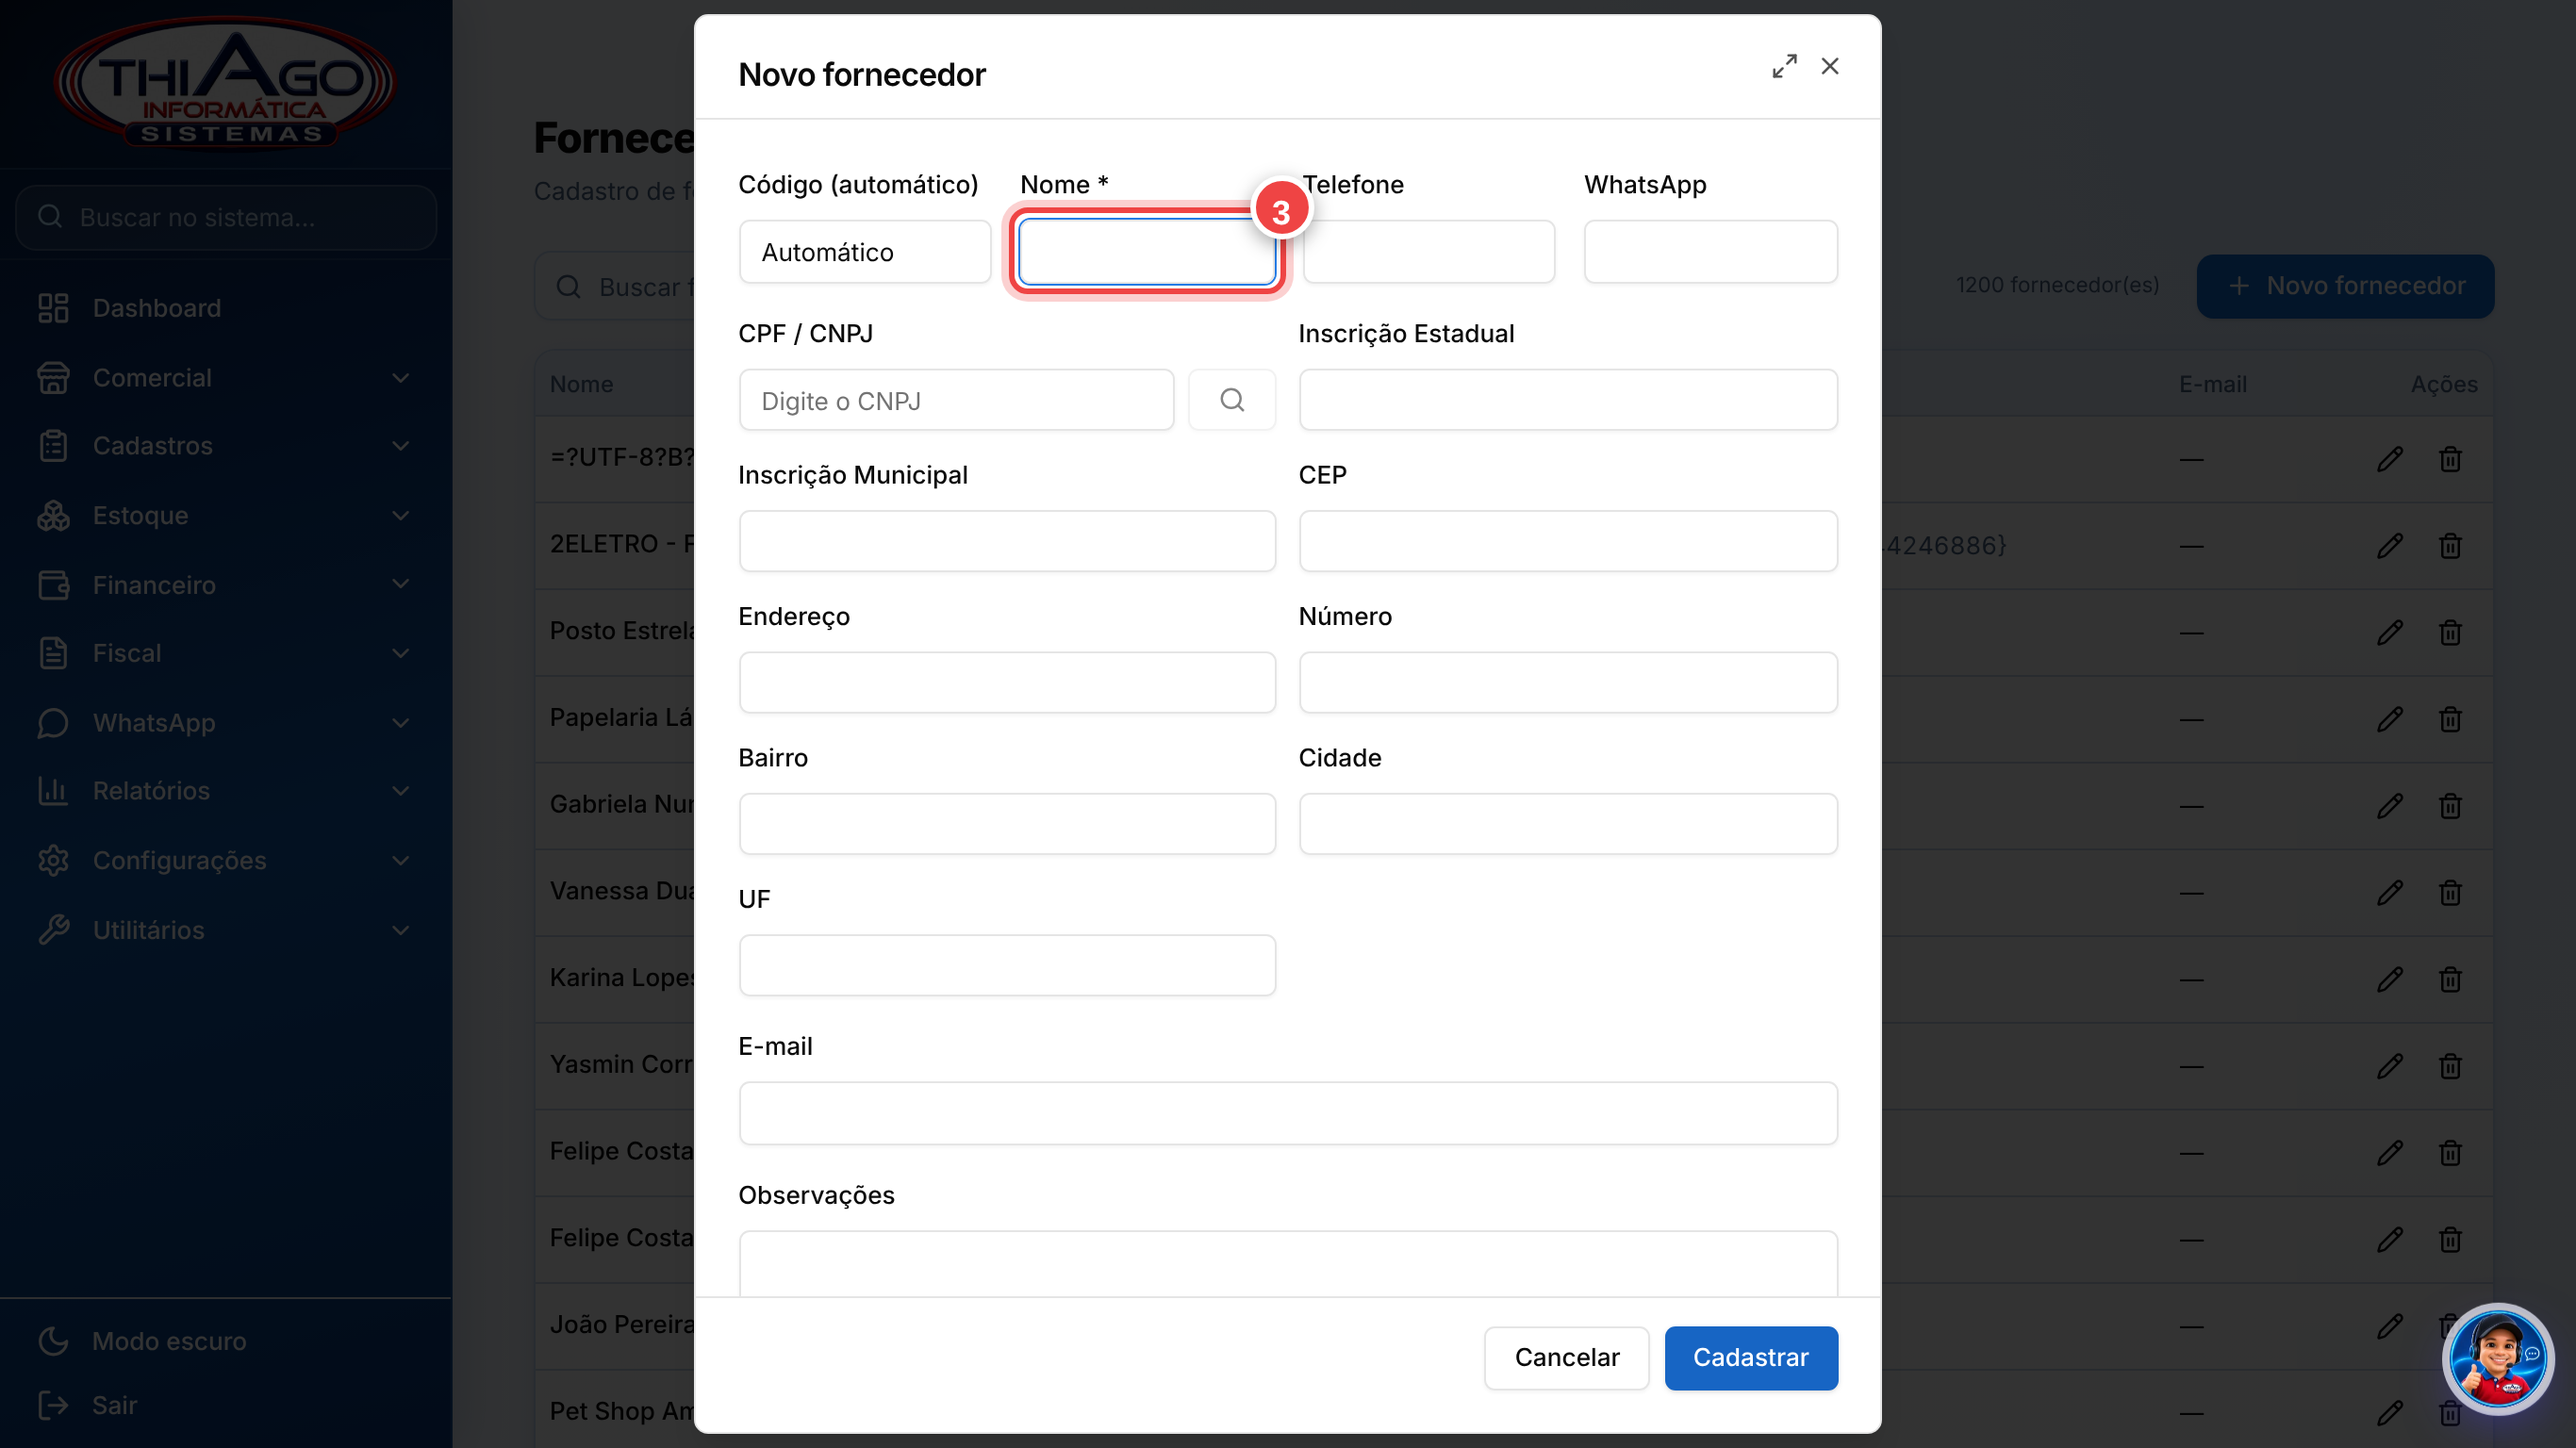
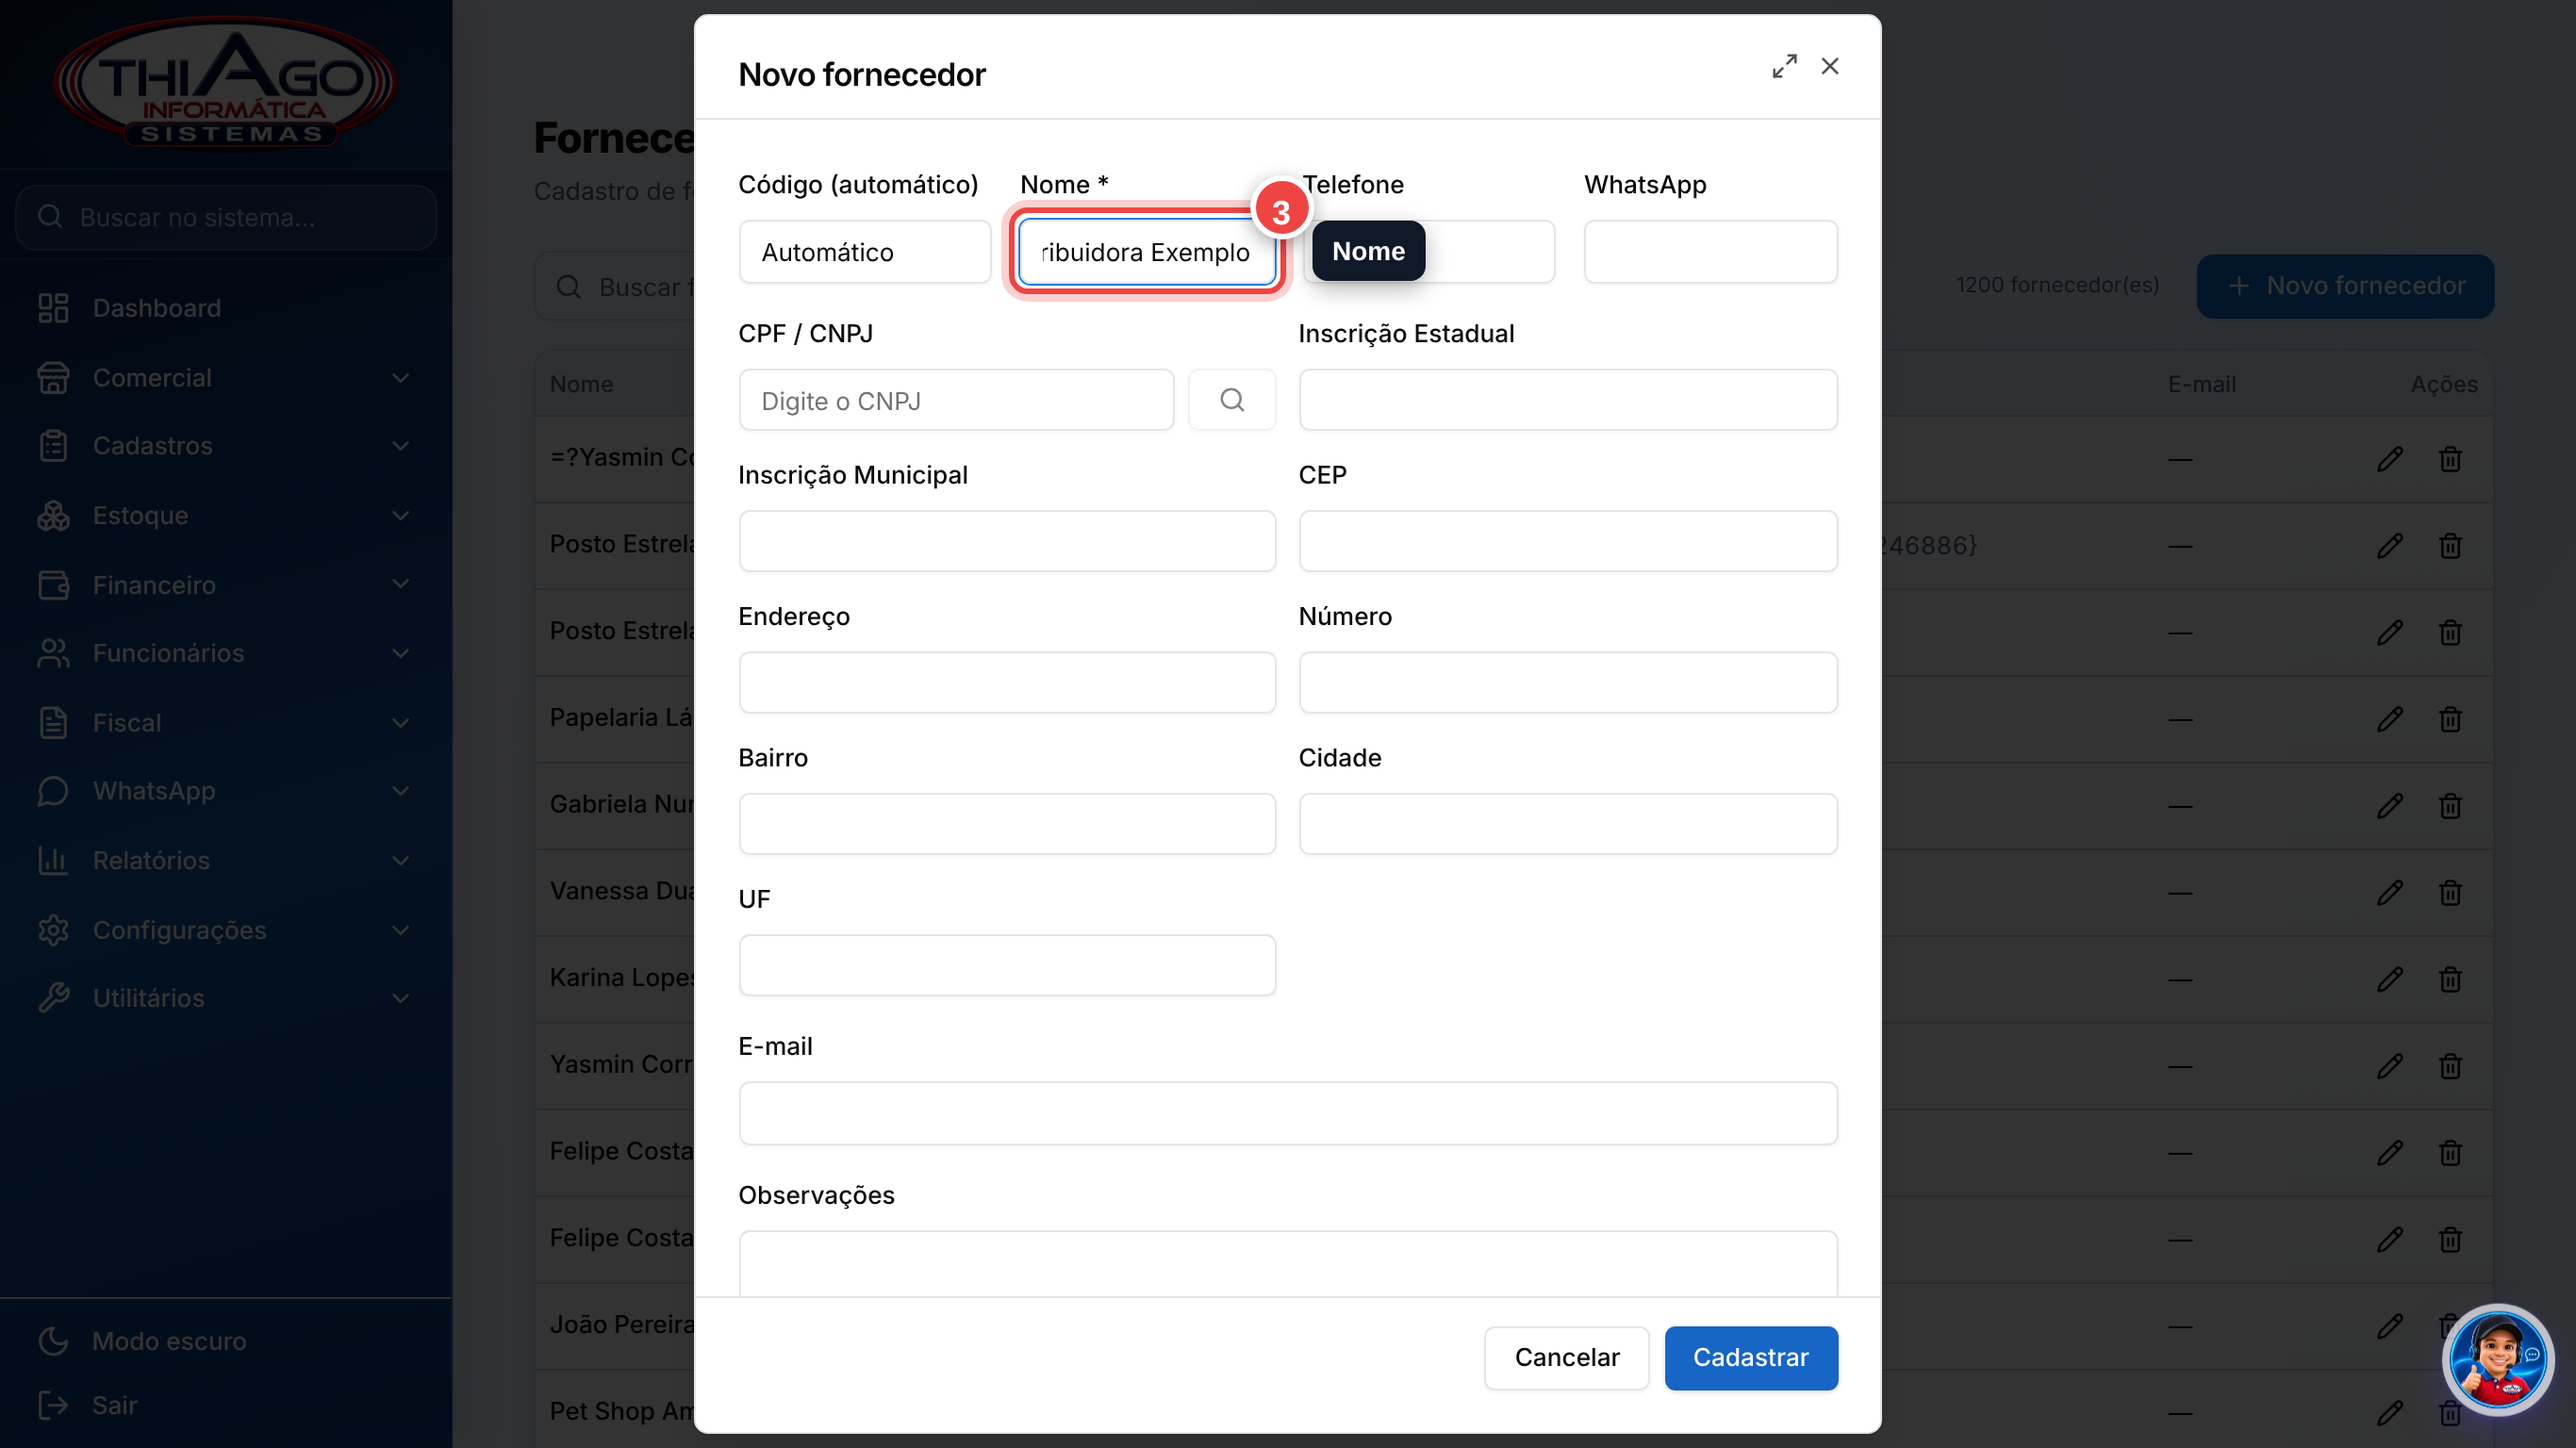
Cadastrar fornecedor feito de verdade (Distribuidora Exemplo)
Claude-Session: https://claude.ai/code/session_01RyHuxN9gx9DVU1E5ti7Cs8

diff --git a/tutoriais/roteiros/22-cadastrar-fornecedor.js b/tutoriais/roteiros/22-cadastrar-fornecedor.js
@@ -1,34 +1,50 @@
+// Cadastro de fornecedor feito DE VERDADE na Demonstração (pedido do dono, 21/11/2026): fornecedor fictício
+// "Distribuidora Exemplo", sem telefone, salva e aparece na lista.
 module.exports = {
   id: 'cadastrar-fornecedor',
   ordem: 22,
   grupo: 'Cadastros',
   titulo: 'Cadastrar um fornecedor',
+  gravaDados: true,
+  aceitarConfirmacao: true,
+  manter: ['Distribuidora Exemplo'],
+  assunto: { chave: ['fornecedor', 'fornecedores'], acoes: ['cadastrar', 'cadastro', 'novo', 'incluir', 'adicionar', 'criar', 'como'], rotas: ['/cadastros/fornecedores'] },
   resumo: 'Cadastre quem vende mercadoria para a sua loja.',
+  fala: 'Oi! Aqui é o Thiago, da Thiago Informática. Neste vídeo eu vou cadastrar um fornecedor de verdade. Bora lá!',
   passos: [
     {
       ir: '/cadastros/fornecedores',
-      titulo: 'Clique em "Novo fornecedor"',
-      texto: 'No menu, clique em Cadastros › Pessoas › Fornecedores e depois em "Novo fornecedor".',
-      marcar: [{ alvo: { papel: 'button', nome: 'Novo fornecedor' } }],
-      depois: [{ tipo: 'clicar', alvo: { papel: 'button', nome: 'Novo fornecedor' }, espera: 1500 }],
+      espera: 6000,
+      titulo: 'Abra Fornecedores',
+      texto: 'No menu, clica em Cadastros, Pessoas, Fornecedores. Pra cadastrar, é no botão Novo fornecedor.',
+      marcar: [{ alvo: { papel: 'button', nome: 'Novo fornecedor' }, legenda: 'Novo fornecedor' }],
     },
     {
+      antes: [{ tipo: 'clicar', alvo: { papel: 'button', nome: 'Novo fornecedor' }, seguro: true, espera: 1800 }],
       titulo: 'Busque pelo CNPJ',
-      texto: 'Digite o CNPJ e clique na lupa: nome e endereço são preenchidos sozinhos com os dados da Receita.',
+      texto: 'Se tiver o CNPJ, digita e clica na lupa: o nome e o endereço vêm sozinhos, direto da Receita.',
       marcar: [
         { alvo: { placeholder: 'Digite o CNPJ', dentro: 'dialog' }, legenda: 'CNPJ' },
         { alvo: { titulo: 'Buscar dados públicos do CNPJ', dentro: 'dialog' }, legenda: 'Buscar' },
       ],
     },
     {
-      titulo: 'Confira o nome e o contato',
-      texto: 'O Nome é obrigatório. Preencha também telefone, WhatsApp e e-mail do vendedor.',
-      marcar: [{ alvo: { campo: 'Nome', dentro: 'dialog' } }],
+      antes: [{ tipo: 'preencher', alvo: { campo: 'Nome', dentro: 'dialog' }, valor: 'Distribuidora Exemplo' }],
+      titulo: 'O nome e o contato',
+      texto: 'O nome é o único obrigatório. Aqui eu digitei Distribuidora Exemplo. Dá pra colocar também o telefone, o WhatsApp e o e-mail do vendedor.',
+      marcar: [{ alvo: { campo: 'Nome', dentro: 'dialog' }, legenda: 'Nome' }],
     },
     {
-      titulo: 'Clique em "Cadastrar"',
-      texto: 'Clique em "Cadastrar". O fornecedor já pode ser usado nas entradas de mercadoria e no contas a pagar.',
-      marcar: [{ alvo: { papel: 'button', nome: 'Cadastrar', exato: true, dentro: 'dialog' } }],
+      titulo: 'Clique em Cadastrar',
+      texto: 'Clica em Cadastrar e pronto.',
+      marcar: [{ alvo: { papel: 'button', nome: 'Cadastrar', exato: true, dentro: 'dialog' }, legenda: 'Cadastrar' }],
+      depois: [{ tipo: 'clicar', alvo: { papel: 'button', nome: 'Cadastrar', exato: true, dentro: 'dialog' }, espera: 4000 }],
+    },
+    {
+      antes: [{ tipo: 'preencher', alvo: { placeholder: 'Buscar fornecedor' }, valor: 'Distribuidora Exemplo', espera: 3500 }],
+      titulo: 'O fornecedor já está na lista',
+      texto: 'Ele já aparece na lista, pronto pra usar na entrada de mercadoria e no contas a pagar.',
+      marcar: [{ alvo: { texto: 'Distribuidora Exemplo', exato: true }, legenda: 'Fornecedor salvo' }],
     },
   ],
 };
